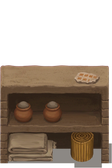
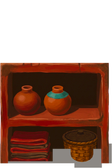
feat: starter's shelf repainted in red ochre, 41 L* off the floor
Claude-Session: https://claude.ai/code/session_01NQk9Q1WZoZfDzoRioyXby1

diff --git a/docs/instructions/repaint-queue.md b/docs/instructions/repaint-queue.md
@@ -193,49 +193,6 @@ the shabti is `--mesh=art/masters/meshes/shabti.glb`. `starter-plain.png` is the
 `art/masters/surfaces/starter-floor.webp` scaled to 1024, the crop every `<tier>-plain.png` is. The
 tally board has no scaffold: it attaches its own master.
 
-### `starter/shelf` — red-ochre shelving, the merchant's pots and linen
-
-**Attach:**
-
-1. `~/tile-previews/shelf-starter.png` — the scaffold
-2. `~/tile-previews/starter-plain.png` — the material reference
-
-```
-A wall-less product shot of a single object, painted in flat matte gouache, no background, on pure magenta #FF00FF. Portrait, two units wide by three tall, exactly as the reference. Do not re-compose it into a square. Paint over the reference image itself.
-
-The object: mudbrick SHELVING with the merchant's stock in it. The frame with a shelf across its middle
-is the unit. In the upper opening stand two squat round-bellied storage JARS with short necks. In the
-lower one is a stack of FOLDED CLOTH at the left and a tall lidded BASKET at the right. Lying flat on the
-top course is a potsherd, an OSTRACON, with a few tally strokes on it.
-
-The shelving is mud plaster washed RED OCHRE #b8452c, deepened to #7e3a1a on its front faces and rubbed
-through to dark mudbrick #5e3a1e at the corners where shoulders catch it. The openings behind the stock
-are in deep shade #3a2a1c. The jars are fired terracotta #c0612f, darker #7e3a1a at the belly, one with a
-turquoise #2a9d8f glazed collar. The cloth is DYED, never plain linen: folded bands of red ochre and deep
-umber. The basket is woven palm fibre stained dark honey #9a6a3c with a #5e3a1e lid. The ostracon is
-terracotta with dark strokes.
-
-IT STANDS ON A PALE FLOOR AND MUST READ DARK ON IT. The floor is pale limestone, #d8c8a8. The object as a
-whole is clearly DARKER and more colourful than that: nothing on it larger than a fingertip is lighter
-than terracotta #c0612f, and only the turquoise #2a9d8f may be, in small touches. Its base, its underside
-and every part nearest the floor are its darkest, deep umber #3a2a1c. Nothing on it is white, cream,
-bleached, pale straw or whitewash — a pale part vanishes into the floor.
-
-Keep every edge, every proportion and every silhouette exactly as in the reference image — do not move, resize, straighten, add, remove or restyle any part of it, and do not change the angle it stands at. Paint only material and wear.
-
-The shadow at its foot is part of the picture: paint it #3A2A1C, with no pink and no purple in it at all.
-
-No highlights, no gloss, no rim light, no ground plane, no reflections. Matte throughout, as if lit by one dull lamp. Merchant's storehouse: fired terracotta #c0612f and #7e3a1a, honey-brown timber #9a6a3c and #5e3a1e, red ochre paint #b8452c, turquoise faience #2a9d8f. Saturated and warm — colour that reads from across the room — and never as pale as the floor it stands on.
-```
-
-Then, once the return is in `~/Downloads`:
-
-```sh
-scaffold shelf
-yarn import-tile art/masters/props/starter/shelf.webp --tier=starter --name=shelf --slot=prop \
-  --filter=smooth --mask="$OBJ" --seat="$SHADOW" --saturation=1.45 --brightness=0.93
-```
-
 ### `starter/offeringTable` — a market table with grain and a balance
 
 **Attach:**
